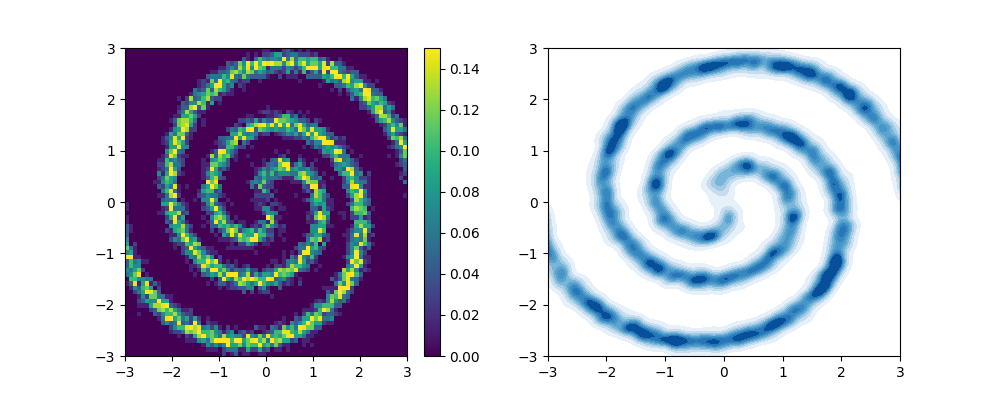
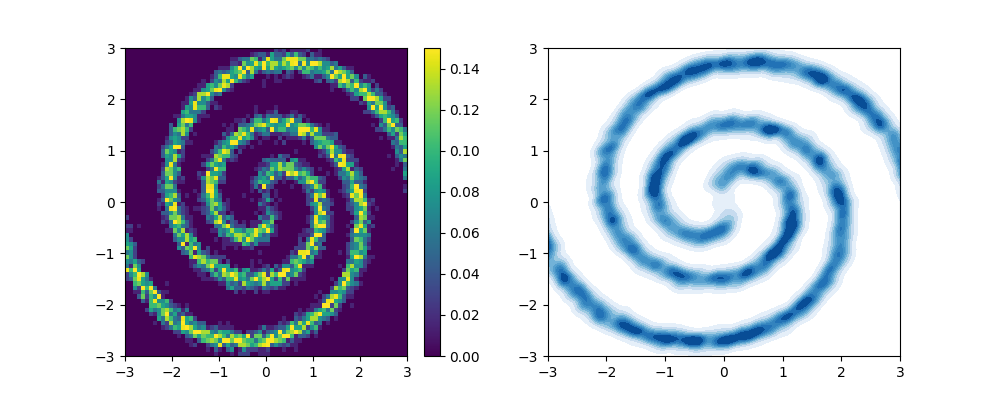
generic commit

Changed region(s): [[0.527, 0.12, 0.899, 0.9], [0.124, 0.12, 0.434, 0.9], [0.403, 0.45, 0.434, 0.48]]

diff --git a/scripts/transport/kvae_flow.py b/scripts/transport/kvae_flow.py
@@ -95,7 +95,7 @@ class Comp_transport_model:
 
 
     def map_mean(self, x_mu, y_mean, y_var, Lambda_mean, X_mean, fit_kernel):
-        x_mean = torch.concat([x_mu, y_mean + y_var], dim=1)
+        x_mean = torch.concat([x_mu, y_mean], dim=1)
         z_mean = fit_kernel(X_mean, x_mean).T @ Lambda_mean
         return z_mean
 
@@ -191,7 +191,7 @@ class CondTransportKernel(nn.Module):
         self.Y_target = torch.concat([deepcopy(self.X_mu), self.Y_mu], dim=1)
 
         self.X_var = torch.concat([self.X_mu, shuffle(self.Y_eta), self.Y_mean + self.Y_var], dim=1)
-        self.X_mean = torch.concat([self.X_mu, self.Y_mean + self.Y_var], dim=1)
+        self.X_mean = torch.concat([self.X_mu, self.Y_mean ], dim=1)
 
         self.Nx = len(self.X_mean)
         self.Ny = len(self.Y_target)
@@ -269,7 +269,7 @@ class CondTransportKernel(nn.Module):
 
 
     def map_mean(self, x_mu, y_mean, y_var):
-        x_mean = torch.concat([x_mu, y_mean + y_var], dim=1)
+        x_mean = torch.concat([x_mu, y_mean], dim=1)
         Lambda_mean = self.get_Lambda_mean()
         z_mean = self.fit_kernel(self.X_mean, x_mean).T @ Lambda_mean
         return z_mean
@@ -526,9 +526,6 @@ def conditional_transport_exp(ref_gen, target_gen, N = 10000, n_iter = 1001, vma
      ref_sample = ref_gen(N_plot)
 
      gen_sample = compositional_gen(trained_models, ref_sample, target_sample, idx_dict)
-
-     test_mmd = trained_models[0].mmd(gen_sample, target_sample) / (trained_models[0].mmd(target_sample, ref_sample))
-     print(f'Normalized test mmd was {format(float(test_mmd.detach().cpu()),4)}')
 
      if len(process_funcs):
          backward = process_funcs[1]
